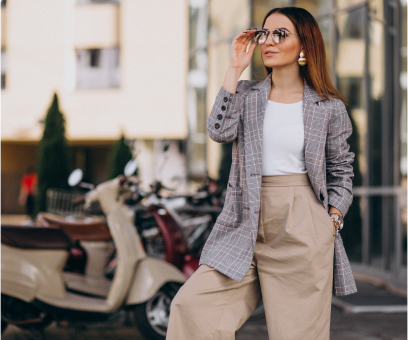
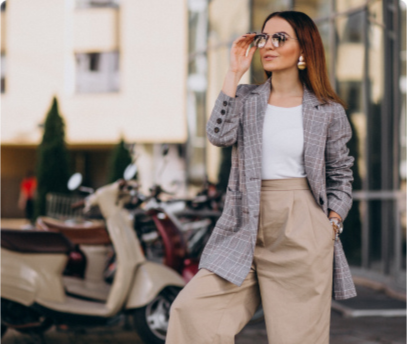
chore: changes for optimizing application

diff --git a/src/app/components/TopBanner.tsx b/src/app/components/TopBanner.tsx
@@ -1,21 +1,29 @@
 'use client';
 import Image from 'next/image';
 import { ImageSlideShow } from './images/ImageSlideShow';
+import mainRightImage from '../assets/images/mainRightImage.png';
+
 export const TopBanner = () => {
   return (
     <div className="relative pl-8 py-4 pr-2 flex flex-col md:flex-row sm:flex-col sm:w-[360px] md:w-[80%]">
-      <div className="w-full md:w-[60%] aspect-video max-w-[718px] relative h-96">
+      {/* Left slideshow section with fixed dimensions to prevent layout shift */}
+      <div className="w-full md:w-[60%] aspect-video max-w-[718px] relative h-96 bg-gray-100">
         <ImageSlideShow />
       </div>
+
+      {/* Right banner section */}
       <div className="relative w-full md:w-[70%] flex flex-row">
-        <div className="w-full relative aspect-video max-w-[718px] h-96 sm:h-[15rem] lg:max-w-[818px]">
+        <div className="w-full relative aspect-video max-w-[718px] h-96 sm:h-[15rem] lg:max-w-[818px] bg-gray-100">
           <Image
-            src="/mainRightImage.png"
+            src={mainRightImage}
             fill
-            alt="right banner"
-            className="main-image"
+            alt="Summer fashion collection - smocks, robes and wraps"
+            className="main-image object-cover"
             sizes="(max-width: 768px) 100vw, (max-width: 1200px) 50vw, 33vw"
             priority={true}
+            quality={85}
+            placeholder="blur"
[1 lines of base64/hex data omitted]
           />
         </div>
         <div className="absolute top-1/4 md:top-1/4 sm:top-4 left-1/2 md:left-1/2 transform -translate-x-1/2 mb-8 md:mb-0 text-center flex flex-col whitespace-nowrap">

diff --git a/src/app/components/images/ImageSlideShow.tsx b/src/app/components/images/ImageSlideShow.tsx
@@ -5,6 +5,7 @@ import leftbanner1 from '../../assets/images/leftbanner-1.png';
 import leftbanner2 from '../../assets/images/calvinklein-leftbanner-1.png';
 import leftbanner3 from '../../assets/images/calvinklein-leftbanner-2.png';
 import leftbanner4 from '../../assets/images/calvinklein-leftbanner-3.png';
+
 export const ImageSlideShow = () => {
   const images = [
     { image: leftbanner1, alt: 'A fashion trend, stylish' },
@@ -14,23 +15,53 @@ export const ImageSlideShow = () => {
   ];
 
   const [currentImageIndex, setCurrentImageIndex] = useState(0);
+  const [loadedImages, setLoadedImages] = useState<number[]>([0]); // Preload first image
 
   useEffect(() => {
     const interval = setInterval(() => {
-      setCurrentImageIndex((prevIndex) => (prevIndex < images.length - 1 ? prevIndex + 1 : 0));
+      setCurrentImageIndex((prevIndex) => {
+        const nextIndex = prevIndex < images.length - 1 ? prevIndex + 1 : 0;
+        // Preload next image, ensuring unique values
+        setLoadedImages(prev => Array.from(new Set([...prev, nextIndex])));
+        return nextIndex;
+      });
     }, 5000);
     return () => clearInterval(interval);
-  }, []);
+  }, [images.length]);
 
-  return images.map((image, index) => (
-    <Image
-      key={`image-${index}`}
-      src={image.image}
-      alt={image.alt}
-      fill
-      priority={true}
-      sizes="(max-width: 768px) 100vw, (max-width: 1200px) 50vw, 33vw"
-      className={`${currentImageIndex === index ? clsx('image-class', 'active', 'main-image') : clsx('image-class', 'main-image')}`}
-    />
-  ));
+  // Preload the next image when current changes
+  useEffect(() => {
+    const nextIndex = currentImageIndex < images.length - 1 ? currentImageIndex + 1 : 0;
+    setLoadedImages(prev => Array.from(new Set([...prev, nextIndex])));
+  }, [currentImageIndex, images.length]);
+
+  return (
+    <>
+      {images.map((image, index) => {
+        const isCurrentImage = currentImageIndex === index;
+        const shouldLoad = loadedImages.includes(index);
+        
+        if (!shouldLoad && !isCurrentImage) {
+          return null; // Don't render images that aren't loaded yet
+        }
+
+        return (
+          <Image
+            key={`image-${index}`}
+            src={image.image}
+            alt={image.alt}
+            fill
+            priority={index === 0} // Only prioritize the first image
+            loading={index === 0 ? 'eager' : 'lazy'}
+            sizes="(max-width: 768px) 100vw, (max-width: 1200px) 50vw, 33vw"
+            className={`${isCurrentImage ? clsx('image-class', 'active', 'main-image') : clsx('image-class', 'main-image')}`}
+            onLoad={() => {
+              // Mark image as loaded
+              setLoadedImages(prev => Array.from(new Set([...prev, index])));
+            }}
+          />
+        );
+      })}
+    </>
+  );
 };

diff --git a/src/app/components/PerformanceMonitor.tsx b/src/app/components/PerformanceMonitor.tsx
@@ -1,0 +1,42 @@
+'use client';
+import { useEffect } from 'react';
+
+export const PerformanceMonitor = () => {
+  useEffect(() => {
+    // Only run in development mode
+    if (process.env.NODE_ENV !== 'development') return;
+
+    // Monitor LCP
+    const observer = new PerformanceObserver((list) => {
+      const entries = list.getEntries();
+      entries.forEach((entry) => {
+        if (entry.entryType === 'largest-contentful-paint') {
+          console.log('🎯 LCP:', entry.startTime.toFixed(2) + 'ms');
+          
+          // LCP scoring thresholds
+          if (entry.startTime <= 2500) {
+            console.log('✅ LCP: Good (≤2.5s)');
+          } else if (entry.startTime <= 4000) {
+            console.log('⚠ LCP: Needs Improvement (2.5s-4s)');
+          } else {
+            console.log('❌ LCP: Poor (>4s)');
+          }
+        }
+      });
+    });
+
+    // Start observing
+    try {
+      observer.observe({ entryTypes: ['largest-contentful-paint'] });
+    } catch (e) {
+      console.log('Performance Observer not supported');
+    }
+
+    // Cleanup
+    return () => {
+      observer.disconnect();
+    };
+  }, []);
+
+  return null; // This component doesn't render anything
+};

diff --git a/src/app/layout.tsx b/src/app/layout.tsx
@@ -6,6 +6,7 @@ import Footer from './components/footer/Footer';
 import { CartProvider } from '../providers/CartProvider';
 import { Toaster } from 'react-hot-toast';
 import { ProductProvider } from '@/providers/ProductProvider';
+import { PerformanceMonitor } from './components/PerformanceMonitor';
 
 const poppins = Poppins({
   subsets: ['latin'],
@@ -23,7 +24,7 @@ export default async function RootLayout({
   children: React.ReactNode;
 }) {
   return (
-    <html lang="en">
+    <html lang="en">     
       <body
         className={`${poppins.className} text-slate=700`}>
         <Toaster
@@ -38,6 +39,7 @@ export default async function RootLayout({
         <CartProvider>
           <ProductProvider>
             <div className="flex flex-col min-h-screen min-w-[460px] md:min-w-[760px]">
+              <PerformanceMonitor />
               <NavBar />
               <main>{children}</main>
               <Footer />

diff --git a/src/app/components/products/ProductCard.tsx b/src/app/components/products/ProductCard.tsx
@@ -10,10 +10,12 @@ import NullData from '../NullData';
 
 interface ProductCardProps<TData> {
   data: TData;
+  priority?: boolean;
 }
 
 const ProductCard: React.FC<ProductCardProps<any>> = ({
   data,
+  priority,
 }) => {
   const router = useRouter();
   const Rating = dynamic(
@@ -50,7 +52,8 @@ const ProductCard: React.FC<ProductCardProps<any>> = ({
             alt={data?.title}
             className="object-contain"
             sizes="(max-width: 768px) 100vw, (max-width: 1200px) 50vw, 33vw"
-            loading="lazy"
+            loading={priority ? 'eager' : 'lazy'}
+            priority={priority}
           />
         </div>
 

diff --git a/next.config.js b/next.config.js
@@ -20,7 +20,19 @@ const nextConfig = {
       'lh3.googleusercontent.com',
       'cdn.dummyjson.com',
     ],
+    formats: ['image/webp', 'image/avif'],
+    deviceSizes: [640, 750, 828, 1080, 1200, 1920, 2048, 3840],
+    imageSizes: [16, 32, 48, 64, 96, 128, 256, 384],
+    minimumCacheTTL: 60,
+    dangerouslyAllowSVG: false,
+    contentSecurityPolicy: "default-src 'self'; script-src 'none'; sandbox;",
   },
+  // Enable compression
+  compress: true,
+  // Optimize for performance
+  poweredByHeader: false,
+  // Enable static optimization
+  trailingSlash: false,
 };
 
 module.exports = nextConfig;

diff --git a/src/app/globals.css b/src/app/globals.css
@@ -11,11 +11,11 @@
 }
 
 .image-class {
-  @apply flex md:flex-row justify-center align-middle self-stretch p-0 md:w-auto md:h-full
-  opacity-0 scale-[1.1] translate-x-[-1rem]
-  rotate-[-5deg] transition-all ease-in-out;
+  @apply opacity-0 transition-opacity duration-500 ease-in-out;
+  transform: translateZ(0); /* Force hardware acceleration */
+  will-change: opacity;
 }
 
 .active {
-  @apply z-10 opacity-100 scale-[1] translate-x-[0] rotate-0;
+  @apply z-10 opacity-100;
 }
